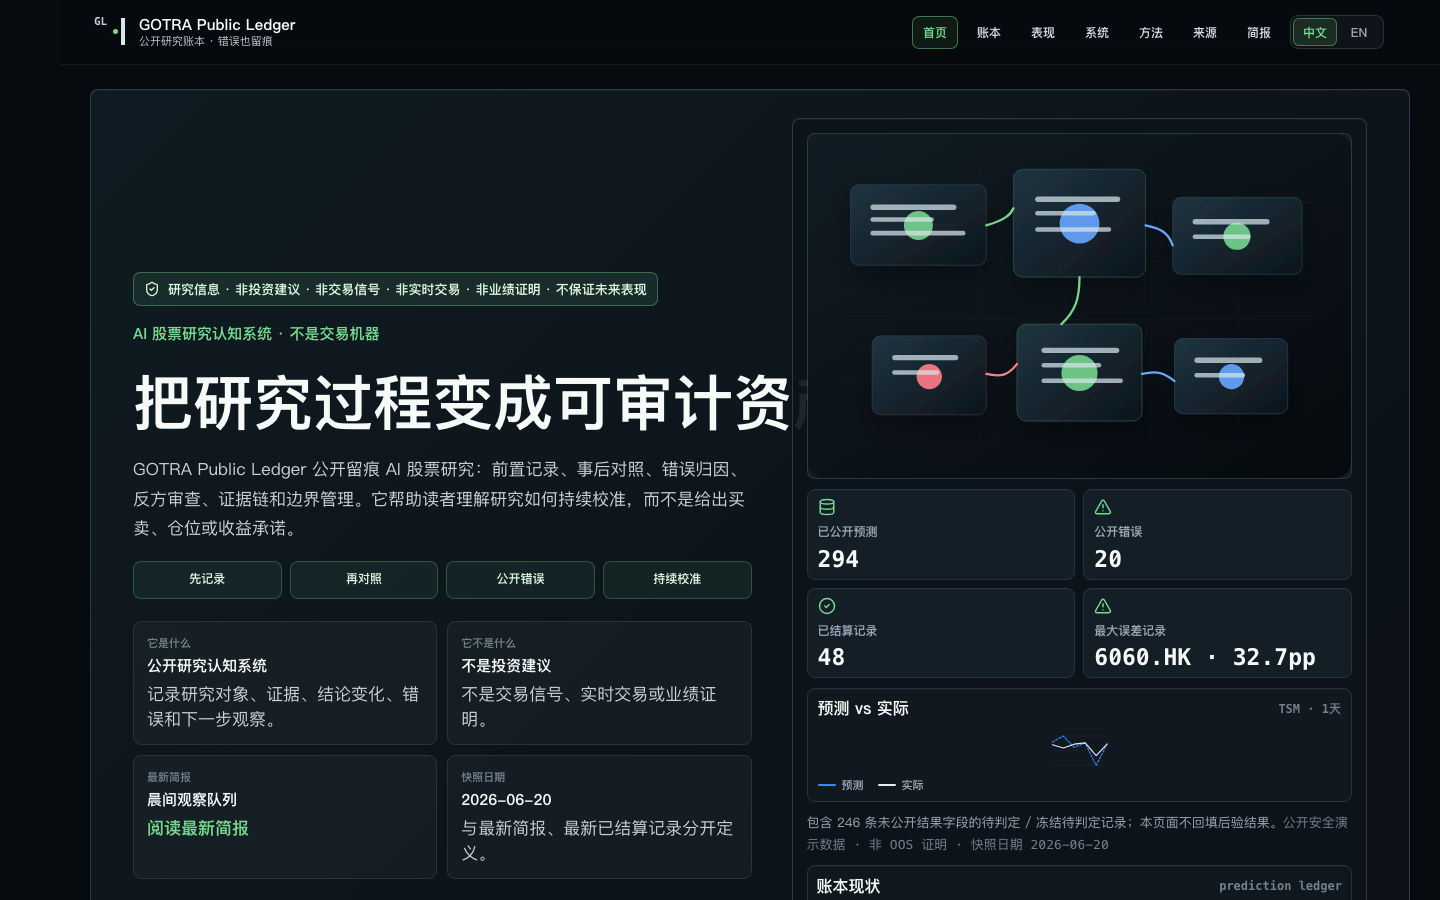
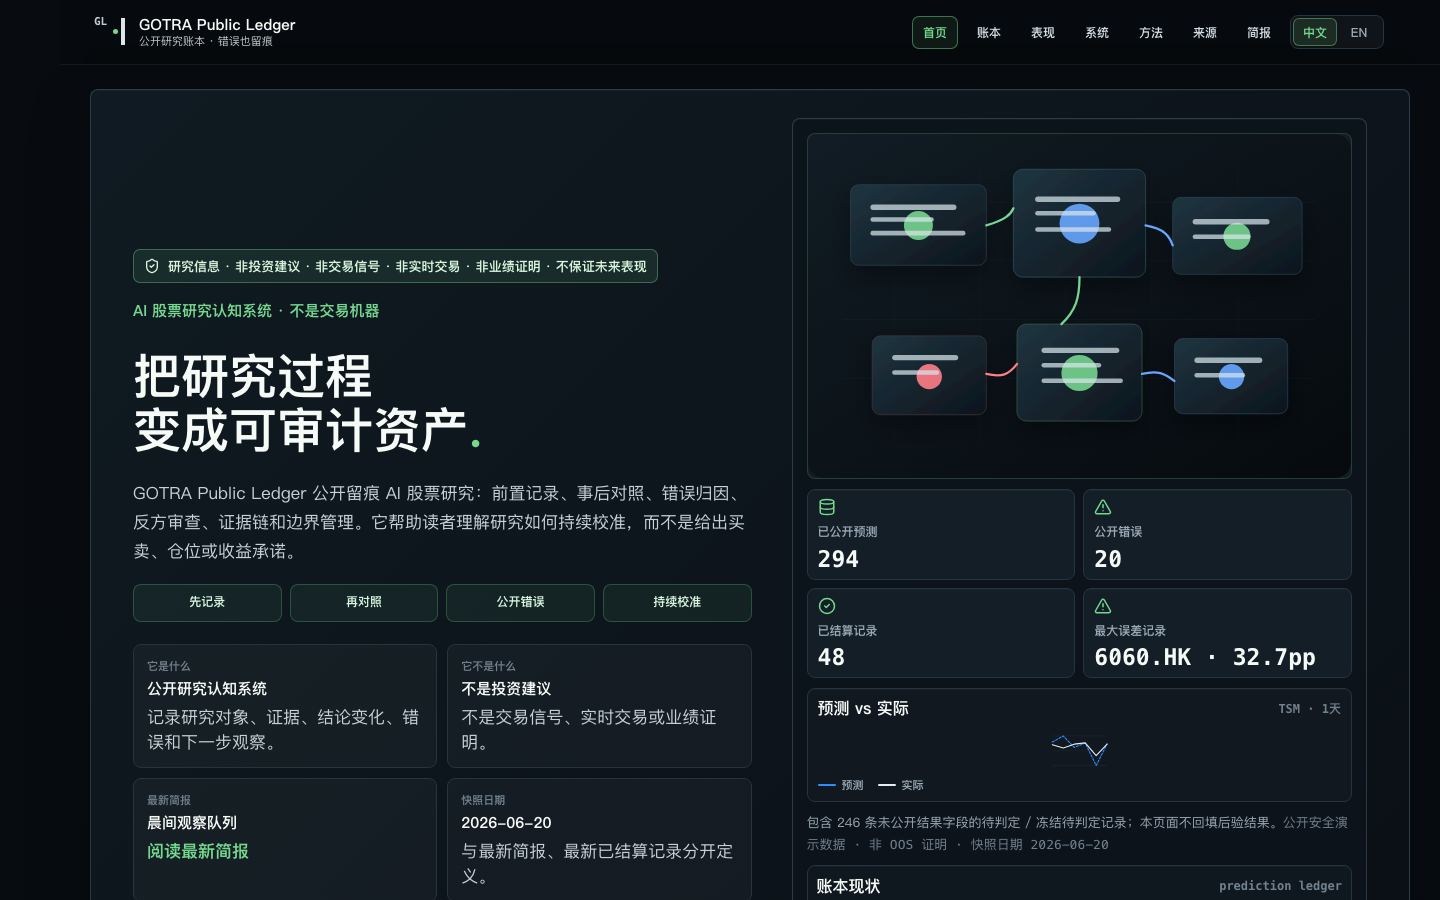
Repair P9 home H1 visual evidence

diff --git a/src/styles.css b/src/styles.css
@@ -4957,17 +4957,13 @@ h1::after {
 }
 
 .hero-section .hero-title {
-  max-width: min(100%, 11.5em);
-  font-size: clamp(44px, 4.35vw, 58px);
-  line-height: 1.08;
+  max-width: min(100%, 9.4em);
+  font-size: clamp(38px, 3.65vw, 48px);
+  line-height: 1.12;
   overflow-wrap: anywhere;
   text-wrap: balance;
-  word-break: normal;
-}
-
-.hero-section .hero-title span {
-  display: block;
-  max-width: 100%;
+  white-space: normal;
+  word-break: break-word;
 }
 
 .hero-asset-frame,
@@ -5198,7 +5194,8 @@ h1::after {
 
 @media (max-width: 760px) {
   .hero-section .hero-title {
-    font-size: clamp(28px, 8.8vw, 34px);
+    max-width: 100%;
+    font-size: clamp(27px, 7.8vw, 31px);
     line-height: 1.14;
   }
 

diff --git a/src/components/Hero.tsx b/src/components/Hero.tsx
@@ -184,8 +184,9 @@ export function Hero({ dataset, metrics, records, language }: HeroProps) {
         <h1 id="page-title" className="hero-title">
           {language === "zh" ? (
             <>
-              <span>把研究过程</span>
-              <span>变成可审计资产</span>
+              把研究过程
+              <br />
+              变成可审计资产
             </>
           ) : (
             "Turn the research process into an auditable asset"
